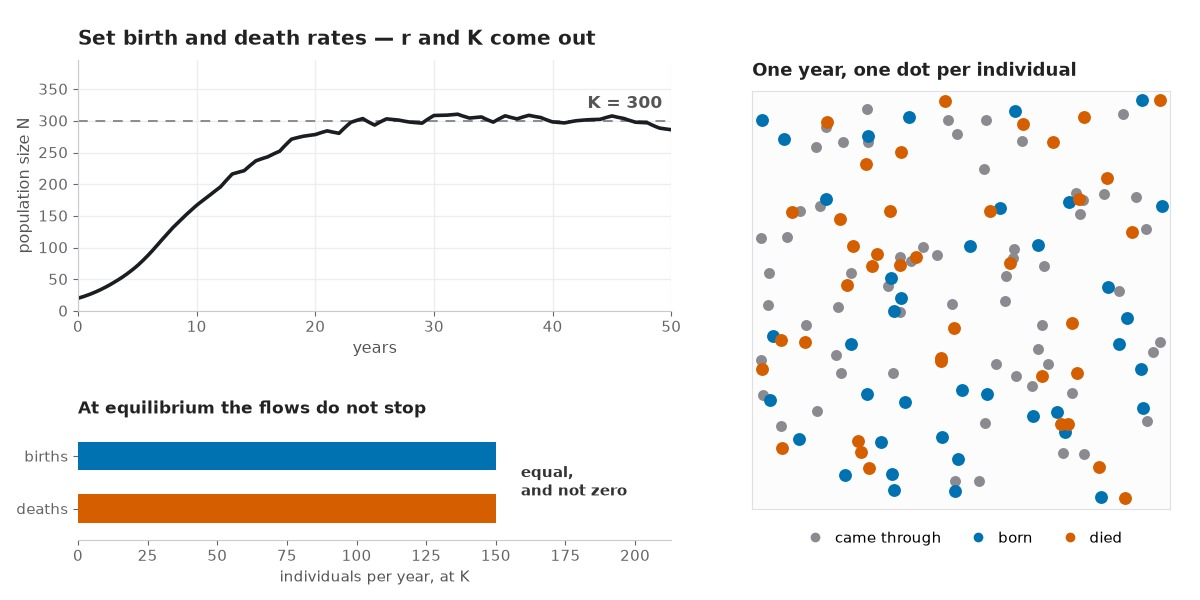
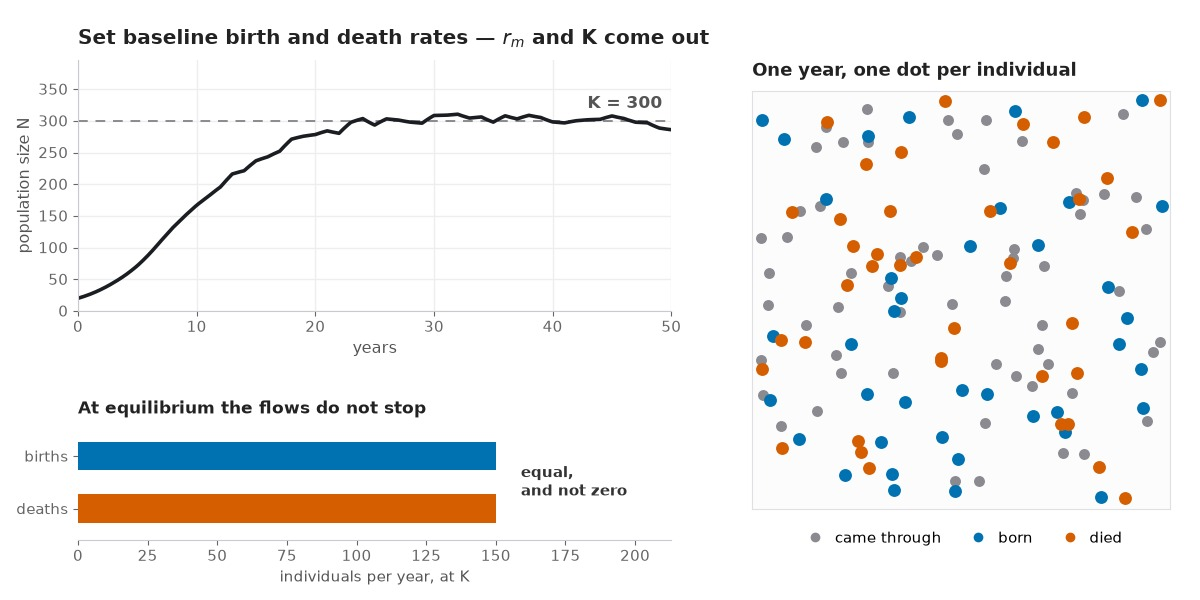
Population Growth: baseline b0/d0, and r_m for the growth rate
Two terminology corrections, for consistency with the lecture.

1. b0 and d0 are now "baseline birth rate" and "baseline death rate". Calling them
plain "birth rate" and "death rate" was genuinely confusing, because b(N) and d(N)
are also birth and death rates -- the ones an individual actually experiences. The
sliders, their hints, the scorecard row and the page prose all now say baseline,
and the equation section spells out that b0 and d0 are the rates without crowding:
what an individual would meet in an empty landscape.

2. The growth rate is written r_m (rendered as the subscript, U+2098) and called
the MAXIMUM intrinsic growth rate, everywhere it faces a reader: the equation, the
derived readouts, the scorecard, the exponential-limit message, the listing card.
The page now also says why it is a maximum -- crowding can only subtract from it,
since the bracket (1 - N/K) is at most 1 and falls to zero at K.

Notes on the two notation choices:

- The subscript is the Unicode character rather than an HTML <sub>, to match the
  b0/d0 subscripts already shipping. Google's Inter subset does not cover the
  Superscripts-and-Subscripts block, so U+2080 already falls back to a system font
  on the live page; U+2098 sits in the same block and takes the identical path, so
  it is exactly as safe as what is there now.
- The listing card uses matplotlib mathtext ($r_m$) instead. Matplotlib's default
  font has no U+2098, and a tofu box on the card would be worse than a plain "r".
[…]

Changed region(s): [[0.0617, 0.03, 0.5858, 0.09]]

diff --git a/js/population.js b/js/population.js
@@ -9,8 +9,10 @@
     #pd-logistic-dots       the individuals: born, died, came through alive
     #pd-logistic-readout    r and K -- what you set, next to what the counts give back
 
-  The organising rule of the page is that there is NO slider for r and none for K.
-  Students set birth and death rates; r and K are readouts. The page shows the curve
+  The organising rule of the page is that there is NO slider for rm and none for K.
+  Students set BASELINE birth and death rates -- the rates an individual meets with
+  no crowding at all -- and rm, the maximum intrinsic growth rate, and K are
+  readouts. The page shows the curve
   and the individuals FIRST and the equation afterwards, so the readout div sits
   below the equation in the .qmd rather than beside the charts.
 
@@ -462,15 +464,15 @@
       // 0.0006-ish and a slider reading "0.60 per 1000" is something a student can
       // hold in their head.
       this.sB0 = slider({
-        label: "Birth rate b₀", value: this.p.b0, min: 0.02, max: 2, step: 0.01,
+        label: "Baseline birth rate b₀", value: this.p.b0, min: 0.02, max: 2, step: 0.01,
         unit: "/yr", fmt: function (v) { return fmt(v, 2); },
-        hint: "births per individual per year, when uncrowded",
+        hint: "births per individual per year, with no crowding at all",
         onInput: function (v) { self.p.b0 = v; self.draw(); }
       });
       this.sD0 = slider({
-        label: "Death rate d₀", value: this.p.d0, min: 0, max: 1.5, step: 0.01,
+        label: "Baseline death rate d₀", value: this.p.d0, min: 0, max: 1.5, step: 0.01,
         unit: "/yr", fmt: function (v) { return fmt(v, 2); },
-        hint: "deaths per individual per year, when uncrowded",
+        hint: "deaths per individual per year, with no crowding at all",
         onInput: function (v) { self.p.d0 = v; self.draw(); }
       });
       this.sDelta = slider({
@@ -509,7 +511,7 @@
       this.sProcess = slider({
         label: "Year-to-year variation", value: this.process, min: 0, max: 0.2, step: 0.01,
         fmt: function (v) { return v === 0 ? "none" : Math.round(v * 100) + "%"; },
-        hint: "good years and bad years: the birth and death rates themselves are " +
+        hint: "good years and bad years: the baseline birth and death rates are " +
               "re-drawn each year. This moves the population.",
         onInput: function (v) { self.process = v; self.draw(); }
       });
@@ -895,7 +897,7 @@
         d.appendChild(h("span", "pd-derived-value", v));
         return d;
       }
-      box.appendChild(row("r = b₀ − d₀", fmt(D.r, 3) + " /yr"));
+      box.appendChild(row("rₘ = b₀ − d₀", fmt(D.r, 3) + " /yr"));
 
       if (D.state === "declines") {
         box.appendChild(row("K", "no positive equilibrium", "is-warn"));
@@ -908,13 +910,13 @@
         box.appendChild(row("K", "unbounded", "is-warn"));
         box.appendChild(h("p", "pd-state",
           "With no density dependence there is nothing in the equation to stop it: " +
-          "this is dN/dt = rN, the exponential, and the bracket (1 − N/K) never " +
+          "this is dN/dt = rₘN, the exponential, and the bracket (1 − N/K) never " +
           "bites. Give crowding some effect on deaths."));
         return box;
       }
 
       var hit = this.target > 0 && D.K >= this.target * 0.98 && D.K <= this.target * 1.02;
-      box.appendChild(row("K = r / (β + δ)", sig3(D.K) + " individuals",
+      box.appendChild(row("K = rₘ / (β + δ)", sig3(D.K) + " individuals",
                           hit ? "is-hit" : (this.target > 0 ? "is-miss" : "")));
       box.appendChild(row("turnover at K", sig3(D.turnover) + " replaced /yr"));
       box.appendChild(row("mean lifespan at K", fmt(D.lifespan, 2) + " yr"));
@@ -939,7 +941,7 @@
        them against each other would be measuring the wrong thing. */
     scorecard: function (D, f) {
       var wrap = h("div", "pd-scorecard-wrap");
-      wrap.appendChild(h("h4", "pd-scorecard-title", "r and K: theory against the counts"));
+      wrap.appendChild(h("h4", "pd-scorecard-title", "rₘ and K: theory against the counts"));
       var t = h("table", "pd-scorecard");
       var html = "<thead><tr><th scope=\"col\">quantity</th>" +
                  "<th scope=\"col\">theoretical<span class=\"pd-sc-sub\">from your rates</span></th>" +
@@ -957,7 +959,7 @@
                   : "Not enough censuses to fit a line — count more often.") +
                 "</td></tr>";
       } else {
-        html += "<tr><th scope=\"row\">r <span class=\"pd-sc-sub\">intrinsic growth rate</span></th>" +
+        html += "<tr><th scope=\"row\">rₘ <span class=\"pd-sc-sub\">maximum intrinsic growth rate</span></th>" +
                 "<td>" + fmt(D.r, 3) + "</td><td>" + fmt(f.r, 3) + " " +
                 (f.rCI ? ci(f.rCI[0], f.rCI[1], 3) : "") + "</td></tr>";
 
@@ -967,7 +969,7 @@
                              : sig3(f.K) + " " + (f.KCI ? ci(f.KCI[0], f.KCI[1], 0) : "")) +
                 "</td></tr>";
 
-        html += "<tr><th scope=\"row\">b₀, d₀ <span class=\"pd-sc-sub\">the rates themselves</span></th>" +
+        html += "<tr><th scope=\"row\">b₀, d₀ <span class=\"pd-sc-sub\">the baseline rates</span></th>" +
                 "<td>" + fmt(this.p.b0, 2) + ", " + fmt(this.p.d0, 2) + "</td>" +
                 "<td><em>not recoverable — counts see only b − d</em></td></tr>";
       }

diff --git a/js/population-model.js b/js/population-model.js
@@ -39,10 +39,14 @@
 
      Substituting the two lines above into dN/dt = [b(N) - d(N)] N gives
 
-       dN/dt = [(b0 - d0) - (beta + delta) N] N  =  r N (1 - N/K)
+       dN/dt = [(b0 - d0) - (beta + delta) N] N  =  rm N (1 - N/K)
 
-     which is the equation on the lecture slide, with r = b0 - d0 and
-     K = r / (beta + delta). `state` names the two degenerate cases, because both
+     which is the equation on the lecture slide, with rm = b0 - d0 and
+     K = rm / (beta + delta). b0 and d0 are the BASELINE rates -- what an individual
+     meets with no crowding at all -- and rm is therefore the MAXIMUM intrinsic
+     growth rate: crowding only ever subtracts from it, since (1 - N/K) <= 1.
+     The code calls it `r`, which is the conventional symbol and what the fitted
+     quantity is universally called; the page writes it rm. `state` names the two degenerate cases, because both
      are worth stumbling into rather than being hidden behind a clamp. */
   function derived(p) {
     var r = p.b0 - p.d0;
@@ -84,7 +88,7 @@
      because the logistic solution divides by r and by (beta + delta):
 
        normal      N = K N0 / (N0 + (K - N0) e^{-rt})
-       r == 0      pure crowding, no intrinsic growth:  N = N0 / (1 + dd N0 t)
+       rm == 0     pure crowding, no intrinsic growth:  N = N0 / (1 + dd N0 t)
        dd == 0     no density dependence:               N = N0 e^{rt}   (exponential)
 
      K here is Kraw, which is negative when the population is declining. The first

diff --git a/tools/check_population.py b/tools/check_population.py
@@ -7,8 +7,8 @@ page makes about it. Each check below corresponds to a sentence on the page or i
 _dev/population-dynamics-tool.md, and several are regressions for bugs that were
 actually shipped and caught:
 
-  analytic     K = r/(beta+delta), and the closed-form N(t) really solves
-               dN/dt = rN(1 - N/K). If this drifts, students aiming at 500 are
+  analytic     K = rm/(beta+delta), and the closed-form N(t) really solves
+               dN/dt = rm N(1 - N/K). If this drifts, students aiming at 500 are
                aiming at a lie.
   degenerate   the two no-equilibrium states are classified correctly, AND a
                declining population decays smoothly to zero.
@@ -307,10 +307,10 @@ def main() -> int:
     c = Checker(args.verbose)
 
     # -- analytic ------------------------------------------------------------
-    print("analytic  (does the closed form solve dN/dt = rN(1-N/K)?)")
+    print("analytic  (does the closed form solve dN/dt = rm N(1-N/K)?)")
     a = d["analytic"]
-    c.ok(abs(a["r"] - 0.30) < 1e-12, "r = b0 - d0", f"{a['r']:.6f}")
-    c.ok(abs(a["K"] - 500.0) < 1e-9, "K = r/(beta+delta)", f"{a['K']:.6f}")
+    c.ok(abs(a["r"] - 0.30) < 1e-12, "rm = b0 - d0", f"{a['r']:.6f}")
+    c.ok(abs(a["K"] - 500.0) < 1e-9, "K = rm/(beta+delta)", f"{a['K']:.6f}")
     c.ok(abs(a["lifespan"] - 2.0) < 1e-9, "mean lifespan = 1/d*", f"{a['lifespan']:.4f} yr")
     c.ok(abs(a["turnover"] - 250.0) < 1e-6, "turnover at K = d* K", f"{a['turnover']:.3f}/yr")
     worst = max(r["rel"] for r in a["rows"])

diff --git a/tools/make_population_card.py b/tools/make_population_card.py
@@ -92,7 +92,9 @@ ax.set_xlim(0, T)
 ax.set_ylim(0, K * 1.32)
 ax.set_xlabel("years", fontsize=11.5, color="#555")
 ax.set_ylabel("population size N", fontsize=11.5, color="#555")
-ax.set_title("Set birth and death rates — r and K come out",
+# mathtext rather than the Unicode subscript: matplotlib's default font has no
+# U+2098, and a tofu box on the listing card would be worse than a plain "r".
+ax.set_title("Set baseline birth and death rates — $r_m$ and K come out",
              fontsize=14.5, fontweight="bold", color="#222", pad=11, loc="left")
 
 # ---- left bottom: the flux bars at K ----------------------------------------

diff --git a/_dev/population-dynamics-tool.md b/_dev/population-dynamics-tool.md
@@ -26,13 +26,13 @@ Course: BioEE 1610, the lecture that introduces
 
 ## 1. The one design decision
 
-Students are given knobs for **vital rates**, never for `r` or `K`. Those two are
+Students are given knobs for **vital rates**, never for `rm` or `K`. Those two are
 *outputs*, displayed as readouts:
 
 | knob | meaning | |
 |---|---|---|
-| `b0` | births per individual per year, uncrowded | |
-| `d0` | deaths per individual per year, uncrowded | |
+| `b0` | **baseline** birth rate: births per individual per year with no crowding at all | |
+| `d0` | **baseline** death rate: deaths per individual per year with no crowding at all | |
 | `delta` | how much each extra individual **raises** the death rate | `d(N) = d0 + delta*N` |
 | `beta` | how much each extra individual **lowers** the birth rate | `b(N) = b0 - beta*N` |
 | `N0` | starting population | |
@@ -40,14 +40,23 @@ Students are given knobs for **vital rates**, never for `r` or `K`. Those two ar
 Because `dN/dt = [b(N) - d(N)] N`, substituting the two lines gives the equation on
 the lecture slide exactly, with
 
-    r = b0 - d0            K = (b0 - d0) / (beta + delta)
+    rm = b0 - d0           K = (b0 - d0) / (beta + delta)
+
+**Notation.** The page writes the growth rate as `rm` -- Xiangtao's lecture symbol,
+rendered `rₘ` -- and calls it the **maximum intrinsic growth rate**, because `b0` and
+`d0` are baseline rates and crowding can only subtract from their difference: the
+bracket `(1 - N/K)` is at most 1 and falls to zero at `K`. The code keeps the bare
+name `r` throughout, since that is the conventional symbol and what the fitted
+quantity is universally called; only the user-facing strings carry the subscript.
+Calling `b0`/`d0` plain "birth rate" and "death rate" was the earlier phrasing and
+was genuinely confusing, since `b(N)` and `d(N)` are also birth and death rates.
 
 `beta` starts at zero and lives behind an "advanced" disclosure, so the default page
 has three rate knobs and the `b(N)`/`d(N)` chart is one flat line and one rising line
 — the cleanest version of that figure. Opening `beta` is what makes the
 "which vital rate is density-dependent?" ambiguity available (see §5).
 
-**Why no `r` and `K` knobs.** Handing a student a `K` slider teaches `K` as a ceiling
+**Why no `rm` and `K` knobs.** Handing a student a `K` slider teaches `K` as a ceiling
 imposed from outside. Deriving it teaches what is true and much more useful: `K` is
 where births and deaths balance, so it is a property of the whole demography and of
 the environment that sets those rates — which is why you cannot look up a carrying
@@ -506,7 +515,7 @@ maths and has no DOM, `population.js` draws and wires. Every colour is a class i
   instead manufactures a run of `ln(1/1) = 0` growth rates pinned at `N = 1`, which
   drags the fitted line.
 - **`derived()` reports two carrying capacities.** `Kraw` is the bare ratio
-  `r/(beta+delta)` and exists whenever there is any density dependence -- *including
+  `rm/(beta+delta)` and exists whenever there is any density dependence -- *including
   when it is negative*, which is the declining case. `K` is the ecologically
   meaningful one and stays null unless there is a positive equilibrium, so nothing
   downstream can print a negative carrying capacity at a student. The trajectory

diff --git a/tools/README.md b/tools/README.md
@@ -165,10 +165,10 @@ or in [`_dev/population-dynamics-tool.md`](../_dev/population-dynamics-tool.md):
 
 | check | what it asserts |
 |---|---|
-| `analytic` | `K = r/(β+δ)`, and the closed-form `N(t)` really solves `dN/dt = rN(1−N/K)` |
+| `analytic` | `K = rₘ/(β+δ)`, and the closed-form `N(t)` really solves `dN/dt = rₘN(1−N/K)` |
 | `degenerate` | the two no-equilibrium states are classified right, and a declining population decays smoothly to zero |
 | `exact_fit` | with no observation error the fit returns `r` and `K` to well under 0.5 % |
-| `bias` | with observation error the bias runs in a **known direction** — `r` low, `K` high |
+| `bias` | with observation error the bias runs in a **known direction** — `rₘ` low, `K` high |
 | `coverage` | the bootstrap interval covers the truth as often as the page implies (85–93 %, *not* 95 %) |
 | `sane_ci` | an interval always contains its own point estimate |
 | `short_window` | `K` is refused, not guessed, from a population that has not slowed down |
